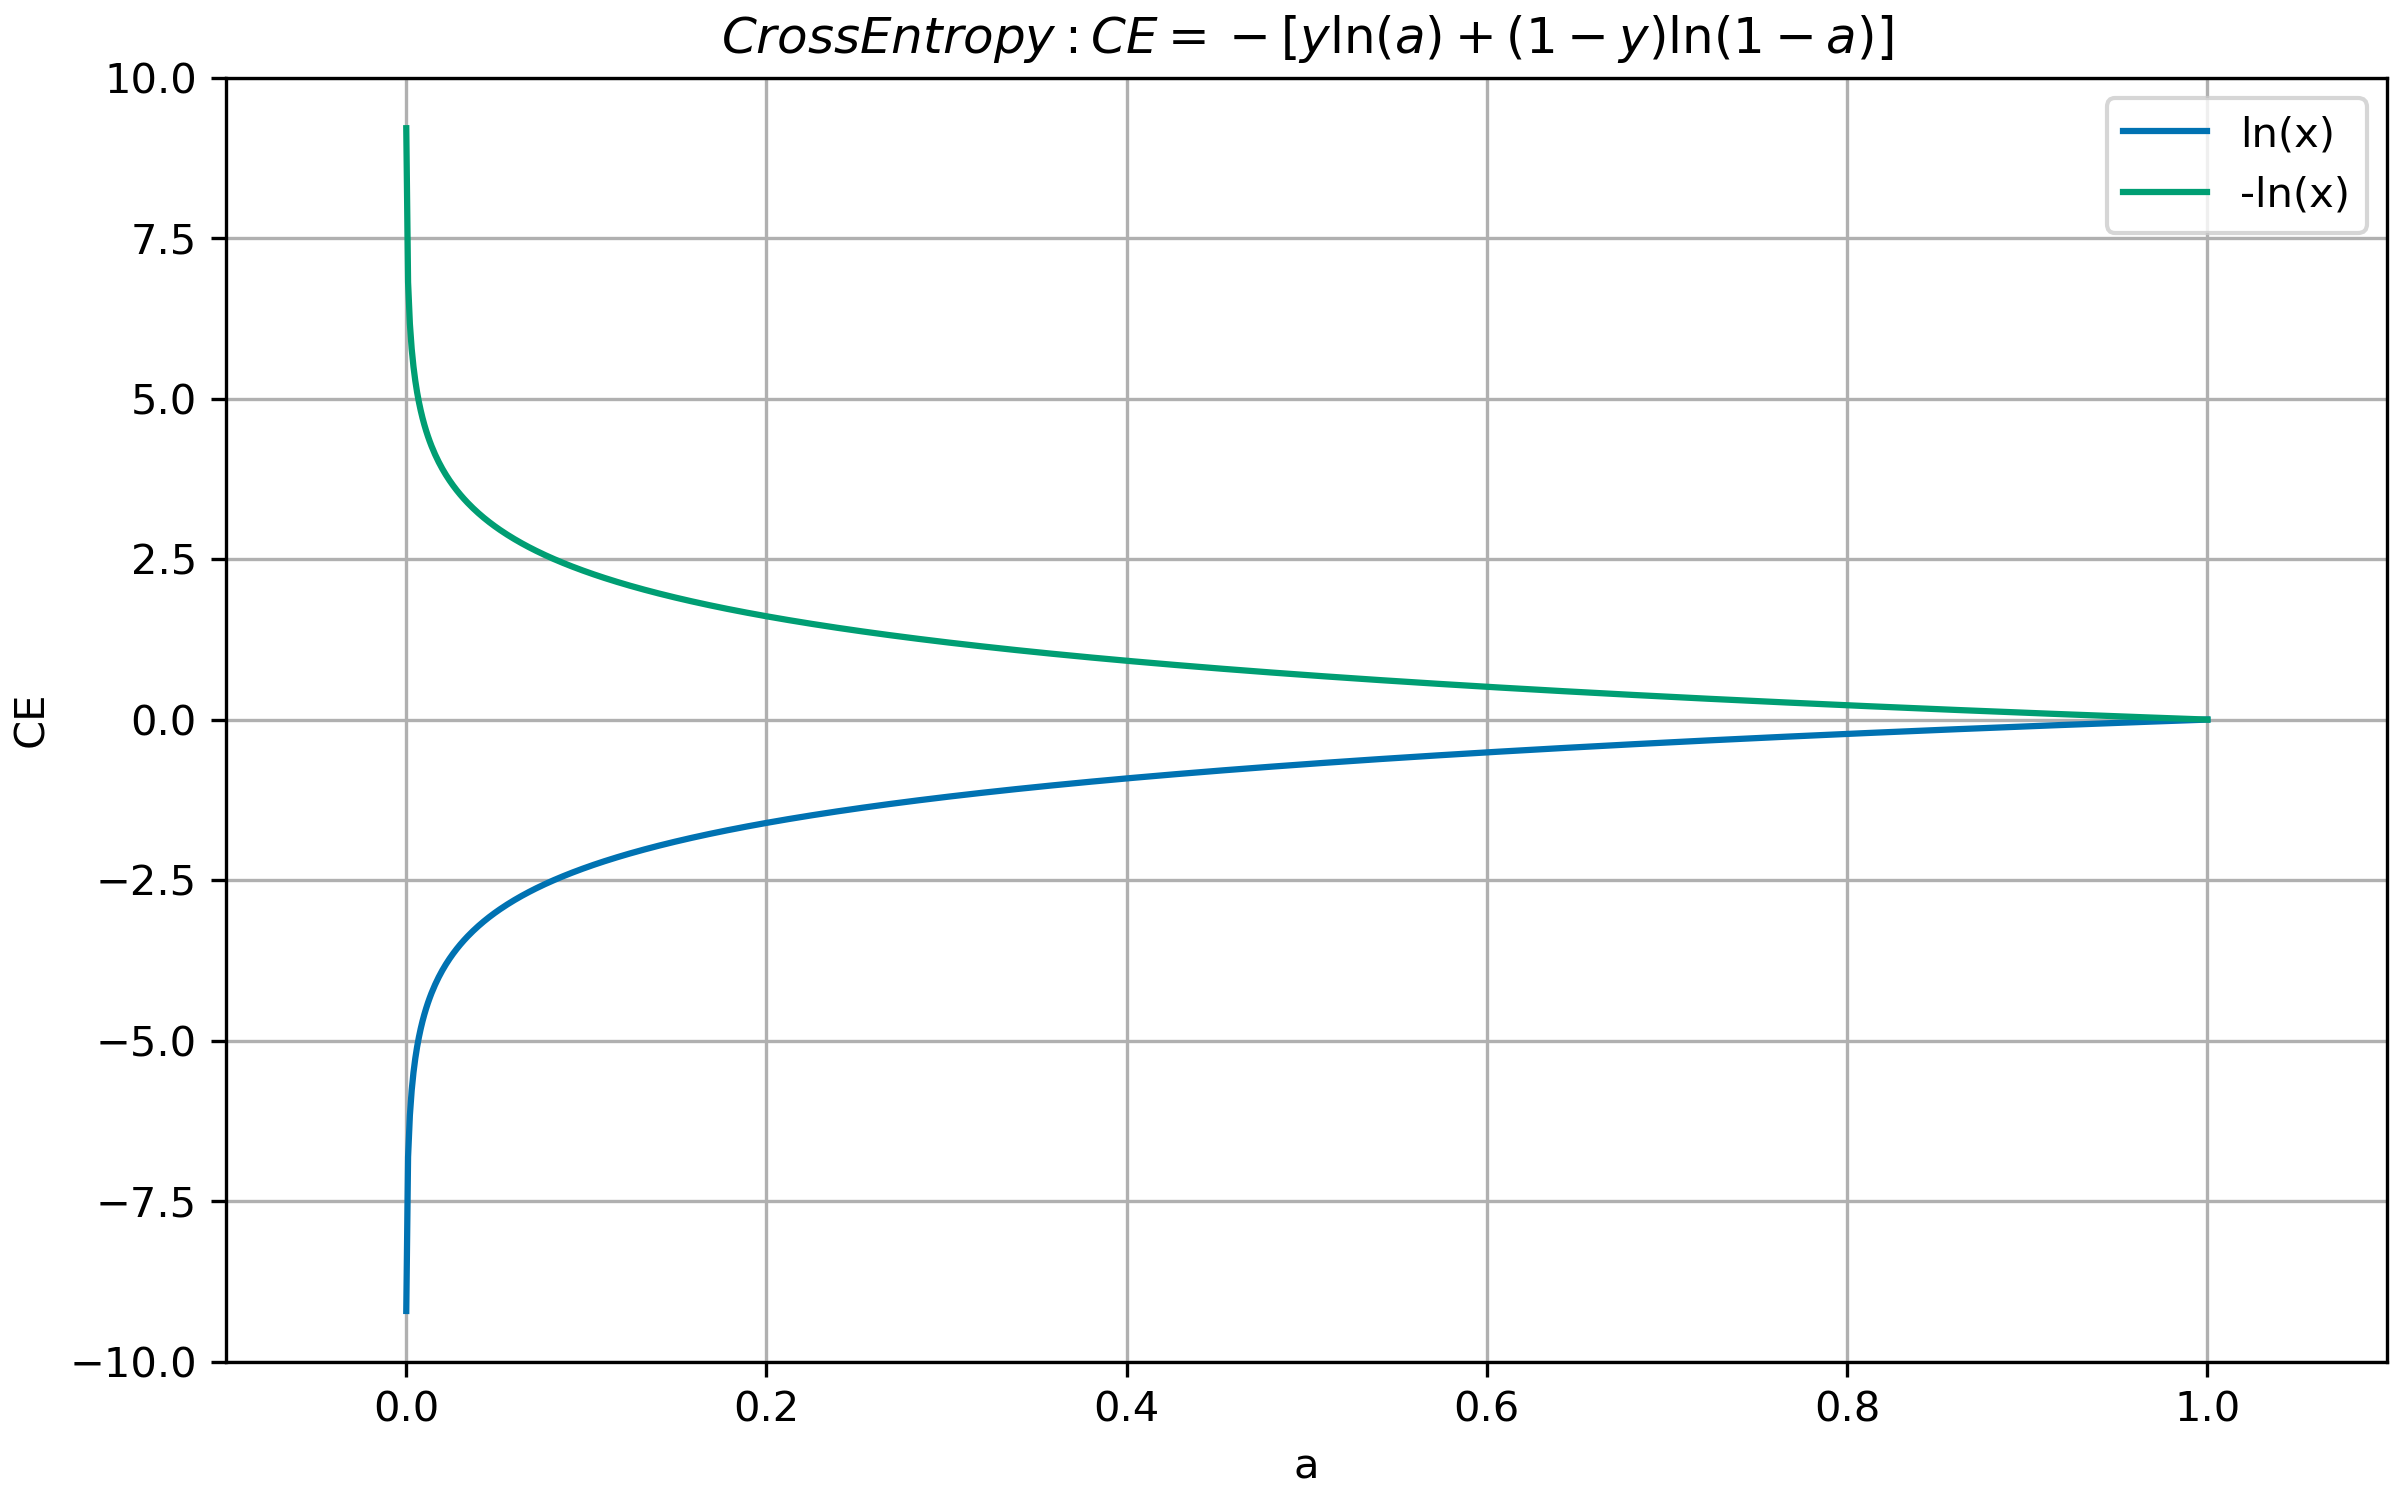
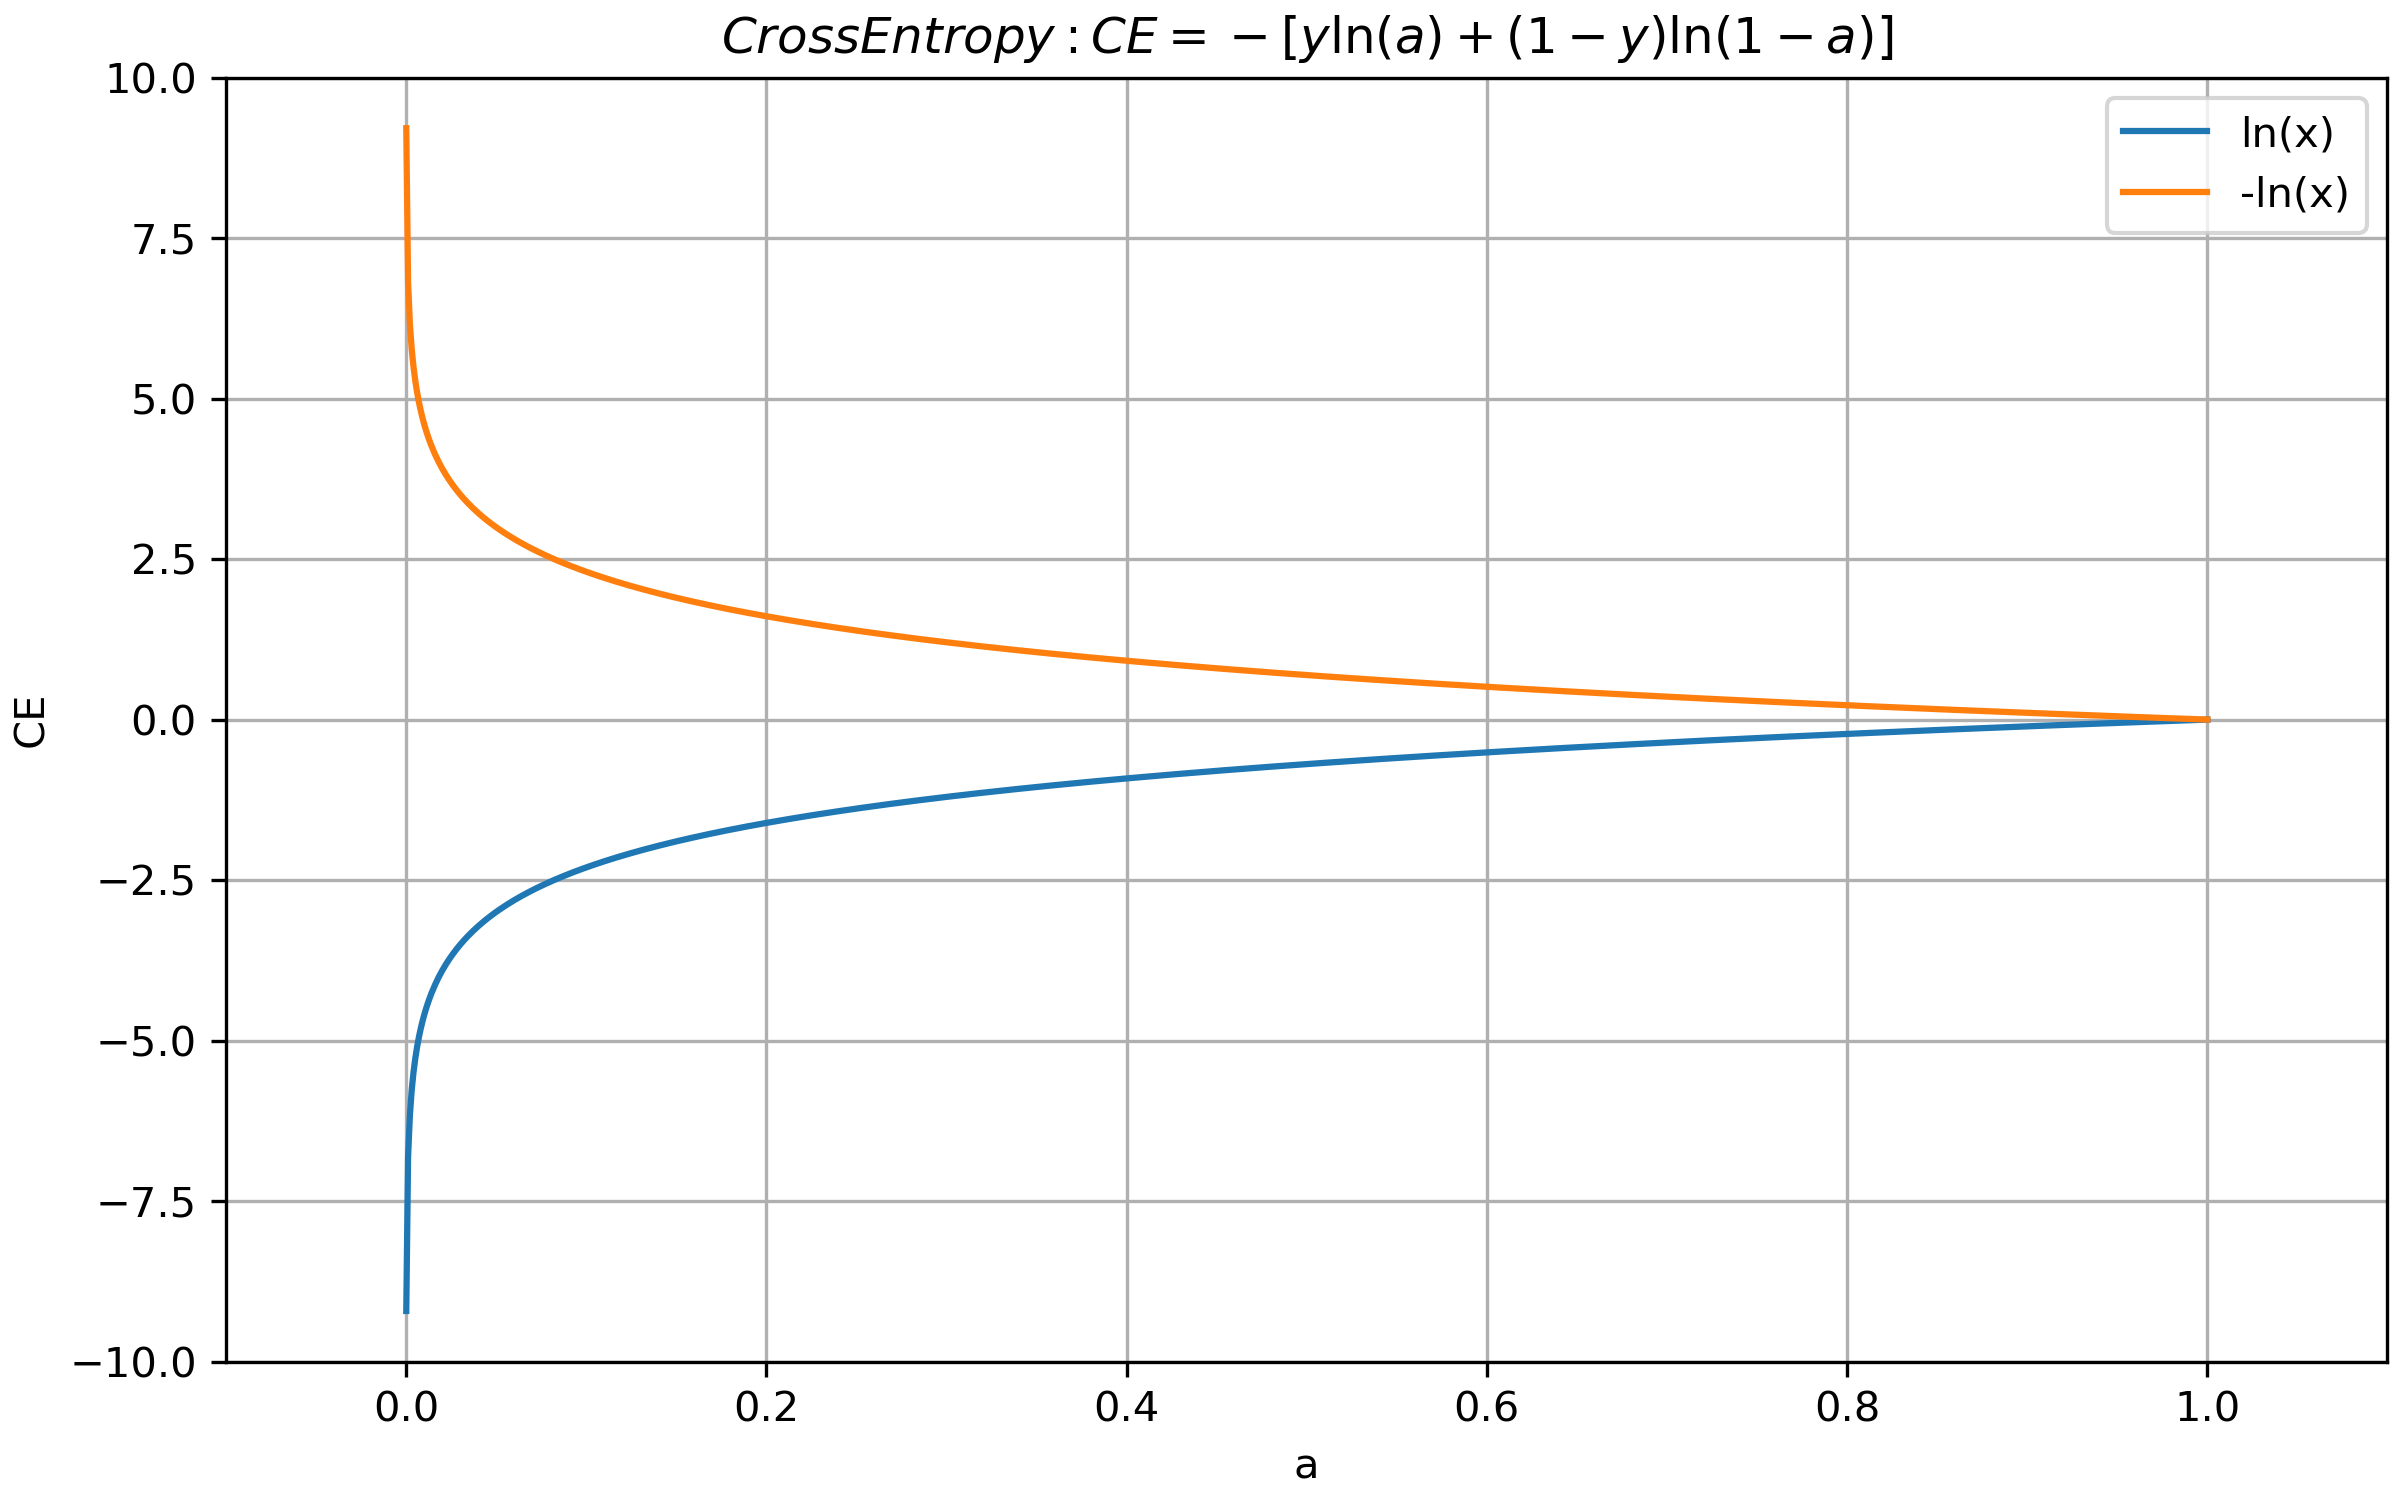
regularization II

diff --git a/PythonScripts/Examples/learn.py b/PythonScripts/Examples/learn.py
@@ -106,111 +106,49 @@ for l,n in z: print('B2',l,n)
 ## http://neuralnetworksanddeeplearning.com/chap3.html#softmax
 print('\n')
 print('SOFT MAX')
+print('######################')
 zL= np.array([2.5,-1,3.2,0.5])
 aL = np.exp(zL)/np.sum( np.exp(zL) )
-print(np.round(aL,3))
+print(np.round(aL,3),'\n')
 
 
-class Net():
+print('ZIP ENUMERATE')
+print('######################')
+def sig(z): return 1/(1+np.exp(-z))
 
-    def __init__(self, sizes):
+net    = [2,3,4,5]
+rows   = net[1:]
+cols   = net[:-1]
+a      = np.ones((net[0],1))
+w_list = [np.random.randn(i,j) for i,j in zip(rows,cols)]
+b_list = [np.random.randn(i,1) for i   in rows]
+
+
+for l,(wl,bl) in enumerate(zip(w_list,b_list)):
     
-        self.num_layers = len(sizes)
-        self.rows       = sizes[1:]
-        self.cols       = sizes[:-1]
-        self.biases     = [np.random.randn(i,1) for i   in self.rows]
-        self.weights    = [np.random.randn(i,j) for i,j in zip(self.rows,self.cols)]
+    a = sig(wl@a +bl)
     
+    print('layer: ',l)
+    print('########')
+    print('Wl: ',wl,'\n')
+    print('bl: ',bl,'\n')
+    print('al: ',a,'\n')
     
-    def sigmoid(self,z):
 
-        return 1/(1+np.exp(-z))
+
+def An(n):
+     
+    # https://rowannicholls.github.io/python/graphs/image_size.html
     
-    def sigmoid_diff(self,z):
-
-        return np.exp(-z)/(1+np.exp(-z))**2
- 
-    def feedForward(self,a):
-
-        for w,b in zip(self.weights,self.biases):
-            
-            a = self.sigmoid( w@a + b) 
-        return a
+    a = 1.189*0.5**(0.5*n)
+    b = 0.841*0.5**(0.5*n)
     
-    def SGD(self, training_data, epochs, mini_batch_size, eta):
+    return a,b
 
-        training_data = list(training_data)
-        n             = len(training_data)
-        m             = mini_batch_size
+# FORMAT 
+X = np.arange(2,13)
 
-        for epoch in range(epochs):
-            
-            random.shuffle(training_data)
-            mini_batches  = [training_data[i:i+m] for i in range(0,n,m)]
-        
-            for mini_batch in mini_batches:
-                self.update_mini_bach(mini_batch,eta)
-                
-            print(epoch)
-
-    def update_mini_bach(self,mini_batch,eta):
-
-        nabla_w = [np.zeros(w.shape) for w in self.weights]
-        nabla_b = [np.zeros(b.shape) for b in self.biases ]
-        m       = len(mini_batch)
-        
-        for x,y in mini_batch:
-            
-            nabla_bx,nabla_wx = self.backprop(x,y)
-            nabla_w = [ nw + nwx  for nw,nwx in zip(nabla_w, nabla_wx) ]
-            nabla_b = [ nb + nbx  for nb,nbx in zip(nabla_b, nabla_bx) ]
-            
-        self.weights = [ w-(eta/m)*nw for w,nw in zip(self.weights,nabla_w) ]
-        self.biases  = [ b-(eta/m)*nb for b,nb in zip(self.biases ,nabla_b) ]
-
-    def backprop(self, x,y):
+for x in X:
     
-        nabla_bx = [np.zeros(b.shape) for b in self.biases ]
-        nabla_wx = [np.zeros(w.shape) for w in self.weights]
-        z      = 0
-        a      = x
-        z_list = [ ]
-        a_list = [x]
-        
-        """ forward pass """
-        for w,b in zip(self.weights,self.biases):
-             
-            z = w@a + b
-            a = self.sigmoid(z)
-
-            z_list.append(z)
-            a_list.append(a)
-
-        """ backward pass L""" 
-        delta        = self.cost_diff(a_list[-1],y)*self.sigmoid_diff(z_list[-1])
-        nabla_wx[-1] = delta@a_list[-2].T
-        nabla_bx[-1] = delta
-        
-        
-        for l in range(2,self.num_layers):
-    
-            delta = (self.weights[-l+1].T@delta)*self.sigmoid_diff(z_list[-l])
-            nabla_wx[-l] = delta@a_list[-l-1].T
-            nabla_bx[-l] = delta
-
-        return (nabla_bx,nabla_wx)
-    
-       
-    def cost_diff(self,aL,y):
-        
-        return 2*(aL-y)
-    
-    def evaluate(self, test_data):
-        """Return the number of test inputs for which the neural
-        network outputs the correct result. Note that the neural
-        network's output is assumed to be the index of whichever
-        neuron in the final layer has the highest activation."""
-        
-        test_results = [ (np.argmax(self.feedForward(x)), y) for (x, y) in test_data]
-        return sum(int(x == y) for (x, y) in test_results)
-
+    txt  = "Number:{:3}  scuare:{:4} number+pi:{:.2f} cube:{:5}".format(x,x**2,x+np.pi,x**3)
+    print(txt)

diff --git a/PythonScripts/Examples/crossEntropy.py b/PythonScripts/Examples/crossEntropy.py
@@ -18,8 +18,8 @@ plt.close('all')
 
 fig, ax = plt.subplots(figsize=(8,5), layout='constrained')
 plt.style.use(styles[13])
-ax.plot(x, y,  label='ln(x)') 
-ax.plot(x, -y, label='-ln(x)') 
+ax.plot(x, y, label='ln(x)') 
+ax.plot(x,-y, label='-ln(x)') 
 ax.set_xlabel('a')  
 ax.set_ylabel('CE')
 ax.set_title("$CrossEntropy: CE = -[y \ln(a)+ (1-y) \ln(1-a)]$")
